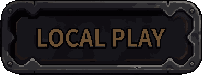
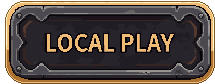
fix: pre-game UI art consistency, dialog scrollbar flash, player-number legibility
- .expansion-card: correct border-image-slice (was chopping the corner
  medallion in half) and background-clip: padding-box (was painting a flat
  color rectangle behind the border's own transparent margin) -- fixes
  Join/Realm/Lobby/Expansions panel borders.
- BoardShapeEditor restyled to the same parchment/.expansion-card theme as
  every other pre-game screen (was the last one still on dark-glass); swapped
  its canvas panel from a scrollbar to object-fit: contain so it never needs
  one.
- Local Play / Host Online buttons and the player-count tiles: base and
  selected-state art re-cut from the same source canvas (previously two
  independently generated images that drifted a few px apart despite looking
  identical) -- eliminates a "everything jumps slightly on hover/select"
  feel across the whole pre-game flow.
- Player-count numbers switched from Pixelify Sans to the existing
  room-code-font (already adopted project-wide for exactly this reason --
  digit ambiguity) plus bold.
- useModalDialog: re-focus with preventScroll after showModal(), fixing a
  page-level scrollbar flash during a dialog's entrance animation.
- victory-in keyframe: dropped its translateY offset -- the actual root
  cause of the scrollbar flash above (an already-centered panel briefly
  extending past the viewport during the animation).
- ci.yml: PR title containing "[skip multiplayer]" now skips the multiplayer
  job entirely, for presentation-only changes like this one that can't
[…]

diff --git a/catan-3d/src/components/hud/BoardShapeEditor.tsx b/catan-3d/src/components/hud/BoardShapeEditor.tsx
@@ -7,6 +7,7 @@ import {
   type CustomBoardShape,
 } from '../../data/customBoardShapes'
 import { useModalDialog } from '../../hooks/useModalDialog'
+import { INK, INK_MUTED, PARCHMENT_BUTTON, PARCHMENT_INPUT } from './parchmentTheme'
 
 // Generous enough for anything from a tight single island to a sprawling
 // peanut/archipelago-style shape, without the grid itself becoming
@@ -213,43 +214,43 @@ export function BoardShapeEditor({
     <dialog
       ref={dialogRef}
       aria-labelledby="board-shape-editor-heading"
-      className="pointer-events-auto m-auto flex max-h-[90vh] w-[960px] flex-col rounded-2xl border border-glass-border bg-glass p-6 shadow-[0_20px_60px_rgba(0,0,0,0.5)] backdrop:bg-board-navy/90 backdrop:backdrop-blur-md backdrop-blur-xl"
+      className="expansion-card pointer-events-auto m-auto flex max-h-[90vh] w-[960px] flex-col p-6 shadow-[0_20px_60px_rgba(0,0,0,0.5)] backdrop:bg-board-navy/80 backdrop:backdrop-blur-md"
     >
-      <h2 id="board-shape-editor-heading" className="font-display text-xl text-white">
+      <h2 id="board-shape-editor-heading" className={`font-display text-xl ${INK}`}>
         {mode === 'preview' ? 'Preview Board Shape' : 'Draw a Board Shape'}
       </h2>
-      <p className="mt-1 font-body text-xs text-white/60">
+      <p className={`mt-1 font-body text-xs ${INK_MUTED}`}>
         {mode === 'preview'
           ? 'This is a saved shape. Use it as-is, or Edit to change it.'
           : 'Click hexes to add them to the shape. Paint a biome onto a tile to fix it — leave tiles unpainted to draw randomly from the standard six. Sea and Gold Field never appear by chance; paint them deliberately. Numbers always shuffle fresh every game.'}
       </p>
 
       <div className="mt-4 flex min-h-0 flex-1 gap-4">
-        <div className="flex w-48 shrink-0 flex-col gap-2 overflow-y-auto rounded-xl border border-glass-border bg-board-navy/60 p-2">
+        <div className="flex w-48 shrink-0 flex-col gap-2 overflow-y-auto rounded-lg border border-[#8a6d47]/30 bg-[#f1e0be]/30 p-2">
           <button
             type="button"
             onClick={resetToBlank}
-            className="rounded-lg border border-glass-border bg-white/5 py-2 font-body text-[11px] tracking-[0.1em] text-gold uppercase transition-colors hover:border-gold/50"
+            className={`${PARCHMENT_BUTTON} py-2 font-body text-[11px] tracking-[0.1em] uppercase`}
           >
             + New Map
           </button>
           {savedShapes.length === 0 && (
-            <p className="mt-2 px-1 font-body text-[11px] text-white/40">No saved maps yet.</p>
+            <p className={`mt-2 px-1 font-body text-[11px] ${INK_MUTED}`}>No saved maps yet.</p>
           )}
           {savedShapes.map((shape) => (
             <div
               key={shape.id}
-              className={`flex items-center justify-between gap-1 rounded-lg border px-2 py-1.5 ${
-                editingId === shape.id ? 'border-gold/60 bg-gold/10' : 'border-glass-border bg-white/5'
+              className={`flex items-center justify-between gap-1 rounded-lg border px-2 py-1.5 transition-colors ${
+                editingId === shape.id ? 'border-[#7a3b1e] bg-[#7a3b1e]/10' : 'border-[#8a6d47]/30 hover:border-[#8a6d47]/60'
               }`}
             >
               <button
                 type="button"
                 onClick={() => loadShapeIntoCanvas(shape)}
-                className="min-w-0 flex-1 truncate text-left font-body text-xs text-white hover:text-gold"
+                className={`min-w-0 flex-1 truncate text-left font-body text-xs ${INK} hover:text-[#7a3b1e]`}
               >
                 {shape.name}
-                <span className="ml-1 text-white/40">({shape.cells.length})</span>
+                <span className={`ml-1 ${INK_MUTED}`}>({shape.cells.length})</span>
               </button>
               {pendingDeleteId === shape.id ? (
                 <button
@@ -268,7 +269,7 @@ export function BoardShapeEditor({
                   type="button"
                   onClick={() => setPendingDeleteId(shape.id)}
                   aria-label={`Delete ${shape.name}`}
-                  className="shrink-0 font-body text-xs text-white/40 hover:text-player-1"
+                  className={`shrink-0 font-body text-xs ${INK_MUTED} hover:text-player-1`}
                 >
                   ✕
                 </button>
@@ -278,8 +279,12 @@ export function BoardShapeEditor({
         </div>
 
         <div className="flex min-w-0 flex-1 flex-col">
-          <div className="flex-1 overflow-auto rounded-xl border border-glass-border bg-board-navy/60 p-3">
-            <svg viewBox="-320 -280 640 560" className="mx-auto block h-auto w-full max-w-[680px]">
+          <div className="flex-1 overflow-hidden rounded-lg border border-[#8a6d47]/30 bg-[#f1e0be]/30 p-3">
+            <svg
+              viewBox="-320 -280 640 560"
+              preserveAspectRatio="xMidYMid meet"
+              className="mx-auto block h-full w-full max-w-[680px] object-contain"
+            >
               {COL_RANGE.flatMap((col) =>
                 ROW_RANGE.map((row) => {
                   const cell = { col, row }
@@ -294,9 +299,9 @@ export function BoardShapeEditor({
                       key={key}
                       points={hexPolygonPoints(cx, cy, HEX_PIXEL_RADIUS - 1.5)}
                       onClick={() => handleTileClick(cell)}
-                      className={`stroke-white/15 transition-colors ${mode === 'editing' ? 'cursor-pointer' : 'cursor-default'} ${
+                      className={`stroke-[#8a6d47]/30 transition-colors ${mode === 'editing' ? 'cursor-pointer' : 'cursor-default'} ${
                         !isSelected
-                          ? 'fill-white/5 hover:fill-white/15'
+                          ? 'fill-[#8a6d47]/5 hover:fill-[#8a6d47]/15'
                           : paintedBiome
                             ? ''
                             : 'fill-gold/80 hover:fill-gold'
@@ -310,7 +315,7 @@ export function BoardShapeEditor({
             </svg>
           </div>
 
-          <div className="mt-3 flex items-center justify-between font-body text-[11px] text-white/50">
+          <div className={`mt-3 flex items-center justify-between font-body text-[11px] ${INK_MUTED}`}>
             <span>{selected.size} tiles selected</span>
             {selected.size > 0 && !connected && (
               <span className="text-player-1">Not all connected — every tile needs a neighbor in the shape.</span>
@@ -319,7 +324,7 @@ export function BoardShapeEditor({
 
           {mode === 'editing' && (
             <div className="mt-3 flex flex-wrap items-center gap-2">
-              <span className="font-body text-[11px] tracking-[0.1em] text-white/50 uppercase">Paint biome</span>
+              <span className={`font-body text-[11px] tracking-[0.1em] uppercase ${INK_MUTED}`}>Paint biome</span>
               {BIOME_PALETTE.map((biome) => (
                 <button
                   key={biome}
@@ -329,7 +334,7 @@ export function BoardShapeEditor({
                   aria-pressed={activeBrush === biome}
                   title={biome}
                   className={`h-6 w-6 rounded-full border-2 transition-transform ${
-                    activeBrush === biome ? 'scale-110 border-white' : 'border-white/30 hover:border-white/60'
+                    activeBrush === biome ? 'scale-110 border-[#7a3b1e]' : 'border-[#8a6d47]/40 hover:border-[#8a6d47]/70'
                   }`}
                   style={{ backgroundColor: BIOME_COLORS[biome] }}
                 />
@@ -341,8 +346,8 @@ export function BoardShapeEditor({
                 aria-pressed={activeBrush === 'erase'}
                 className={`rounded-lg border px-2 py-1 font-body text-[10px] tracking-[0.05em] uppercase transition-colors ${
                   activeBrush === 'erase'
-                    ? 'border-gold text-gold'
-                    : 'border-glass-border text-white/50 hover:text-white'
+                    ? 'border-[#7a3b1e] text-[#7a3b1e]'
+                    : `border-[#8a6d47]/40 ${INK_MUTED} hover:text-[#2b1810]`
                 }`}
               >
                 Erase
@@ -359,7 +364,7 @@ export function BoardShapeEditor({
                 placeholder="Name this shape"
                 aria-label="Shape name"
                 maxLength={30}
-                className="min-w-0 flex-1 rounded-lg border border-glass-border bg-white/5 px-3 py-2 font-body text-sm text-white placeholder:text-white/30 focus:border-gold/60 focus:outline-none"
+                className={`min-w-0 flex-1 ${PARCHMENT_INPUT}`}
               />
               <button
                 type="button"
@@ -367,7 +372,7 @@ export function BoardShapeEditor({
                   setSelected(new Set())
                   setPaintedBiomes(new Map())
                 }}
-                className="rounded-lg border border-glass-border bg-white/5 px-3 py-2 font-body text-[11px] tracking-[0.1em] text-white/60 uppercase transition-colors hover:border-player-1/50 hover:text-player-1"
+                className={`${PARCHMENT_BUTTON} px-3 py-2 font-body text-[11px] tracking-[0.1em] uppercase hover:text-player-1`}
               >
                 Clear
               </button>
@@ -378,7 +383,7 @@ export function BoardShapeEditor({
             <button
               type="button"
               onClick={onClose}
-              className="flex-1 rounded-lg border border-glass-border bg-white/5 py-2.5 font-display text-sm font-semibold text-white transition-colors hover:border-white/30"
+              className={`${PARCHMENT_BUTTON} flex-1 py-2.5 font-display text-sm font-semibold uppercase`}
             >
               Cancel
             </button>
@@ -387,14 +392,14 @@ export function BoardShapeEditor({
                 <button
                   type="button"
                   onClick={() => setMode('editing')}
-                  className="flex-1 rounded-lg border border-gold/50 bg-white/5 py-2.5 font-display text-sm font-semibold text-gold transition-colors hover:border-gold"
+                  className={`${PARCHMENT_BUTTON} flex-1 py-2.5 font-display text-sm font-semibold uppercase`}
                 >
                   Edit
                 </button>
                 <button
                   type="button"
                   onClick={() => onSave(buildCurrentShape())}
-                  className="flex-1 rounded-lg bg-gradient-to-b from-gold to-gold-deep py-2.5 font-display text-sm font-semibold text-board-navy transition-transform hover:scale-[1.02] active:scale-95"
+                  className={`${PARCHMENT_BUTTON} flex-1 py-2.5 font-display text-sm font-semibold uppercase`}
                 >
                   Use This Map
                 </button>
@@ -404,7 +409,7 @@ export function BoardShapeEditor({
                 type="button"
                 disabled={!canSave}
                 onClick={handleSaveShape}
-                className="flex-1 rounded-lg bg-gradient-to-b from-gold to-gold-deep py-2.5 font-display text-sm font-semibold text-board-navy transition-transform hover:scale-[1.02] active:scale-95 disabled:cursor-not-allowed disabled:opacity-40 disabled:hover:scale-100"
+                className={`${PARCHMENT_BUTTON} flex-1 py-2.5 font-display text-sm font-semibold uppercase disabled:cursor-not-allowed disabled:opacity-50`}
               >
                 Save Shape
               </button>

diff --git a/catan-3d/src/index.css b/catan-3d/src/index.css
@@ -126,15 +126,17 @@
 }
 
 /* Player-count tiles — blank (no baked-in number; 1-6 render as real text
-   on top, one shared pair of images). is-selected's canvas (67x70) isn't
-   proportioned the same as the base tile's (64x60), so background-size:
-   contain — which fits each image's WHOLE canvas into the box — rendered
-   the selected tile's core shape visibly smaller than the base tile's
-   (same bug as the buttons, index.css .btn-local-play etc.). Fixed the
-   same way: 100% 100% (stretch) makes both states fill the identical box
-   regardless of their own canvas proportions. */
+   on top, one shared pair of images). Originally two independently
+   generated images (67x70 vs 64x60) that looked the same at a glance but
+   visibly mismatched on screen; background-size: 100% 100% (stretch, same
+   fix as .btn-local-play etc.) covers any future mismatch regardless of
+   source proportions, but as of 2026-09-02 both states are cut from the
+   same 64x64 source (one with a selection border added in the same margin
+   the other leaves empty), so they're pixel-aligned without it. aspect-
+   ratio matches that shared 64x64 canvas so the box itself doesn't add its
+   own stretch on top. */
 .player-tile {
-  aspect-ratio: 64 / 60;
+  aspect-ratio: 1 / 1;
   background-image: url('./assets/menu/player-tile.png');
   background-size: 100% 100%;
   background-position: center;
@@ -201,10 +203,7 @@
 }
 
 /* Hand-made expansion/house-rules card frame (user, Aseprite, 2026-08-28) —
-   wood border + gold corner medallions around aged parchment. 15px
-   transparent margin before the border starts, ~9px of actual wood border
-   after that (pixel-scanned) — slice:24 clears both, landing right at the
-   cream interior.
+   wood border + gold corner medallions around aged parchment.
    No `fill` on border-image-slice (2026-09-01) — the source art's interior
    is a baked, non-tileable aged-parchment texture with irregular stain
    blotches, not a seamless pattern. border-image-repeat: stretch was
@@ -215,15 +214,48 @@
    background-color below (the same #f1e0be page tone every parchment
    screen in this family already samples, see parchmentTheme.ts) fills it
    instead — same color, no stretch-prone texture to distort regardless of
-   box proportions. */
+   box proportions.
+   border-image-slice: 48, not 24 (2026-09-02, real fix for a "square image
+   pasted on the border" corner artifact — confirmed by cropping the raw
+   PNG at both slice depths, not by guessing). The gold corner medallion is
+   baked into the source at roughly 45-48px per side; the plain straight
+   edge (away from corners) is a much thinner ~9px wood line with a 15px
+   transparent margin above it. A single border-image-slice value carves
+   the SAME depth for both the corner square and the edge strip, so the
+   old value (24, sized for the thin edge) sliced straight through the
+   middle of the medallion — the corner box got half a medallion with a
+   jagged cut edge, and the other half spilled into the edge strip, where
+   border-image-repeat: stretch smeared it sideways along the border's
+   length. 48 is the smallest slice that clears the whole medallion in one
+   piece; the extra ~34px it now also carries on the plain edges is flat
+   parchment-interior color in the source art, indistinguishable from the
+   background-color fill already painted behind it.
+   border-image-width: 24px, not 16 — needs to be an exact integer divisor
+   of the 48px slice (48/24 = 2x) so image-rendering: pixelated downscales
+   the medallion cleanly; a non-integer ratio (48/16 = 3x would've been
+   fine too, but the OLD 24/16 = 1.5x was not) is what produced the uneven,
+   chunky resampling on top of the half-medallion cut. border-width matches
+   border-image-width so the rendered art and the box's own layout
+   thickness agree — mismatching them stretches or crops the image inside
+   its own border band. */
 .expansion-card {
   border-style: solid;
-  border-width: 16px;
+  border-width: 24px;
   border-image-source: url('./assets/menu/expansion-panel.png');
-  border-image-slice: 24;
-  border-image-width: 16px;
+  border-image-slice: 48;
+  border-image-width: 24px;
   border-image-repeat: stretch;
   background-color: #f1e0be;
+  /* background-clip defaults to border-box, which paints this flat fill
+     underneath the WHOLE border area — including the ~15px fully
+     transparent margin baked into expansion-panel.png outside the wood
+     line. That showed up as a solid rectangle sitting behind/around the
+     ornate border, mismatched against whatever mottled page art is
+     actually behind this card (confirmed by simulating both clip modes
+     against a non-flat backdrop before touching this). padding-box confines
+     the fill to inside the visible border, letting the real page show
+     through the art's own transparent margin instead. */
+  background-clip: padding-box;
   image-rendering: pixelated;
 }
 
@@ -293,14 +325,22 @@
   }
 }
 
+/* No translateY here (2026-09-02, was translateY(24px)) -- panels using
+   this (every .expansion-card) are already vertically centered via the
+   dialog's own margin:auto, so starting 24px BELOW that pushed the
+   panel's bottom edge past the viewport for the animation's duration on
+   any panel with little vertical slack to spare -- a page-level scrollbar
+   flashed for exactly as long as the animation ran, then vanished once it
+   reached translateY(0). scale-only keeps the same "grows into place"
+   feel without any directional displacement that could push it offscreen. */
 @keyframes victory-in {
   from {
     opacity: 0;
-    transform: translateY(24px) scale(0.94);
+    transform: scale(0.94);
   }
   to {
     opacity: 1;
-    transform: translateY(0) scale(1);
+    transform: scale(1);
   }
 }
 
@@ -368,14 +408,17 @@
 
 :root {
   color-scheme: dark;
+  overflow: hidden;
 }
 
 #root {
   width: 100%;
   height: 100svh;
+  overflow: hidden;
 }
 
 body {
   margin: 0;
+  overflow: hidden;
   font-family: var(--font-body);
 }

diff --git a/catan-3d/src/components/hud/GameSetupMenu.tsx b/catan-3d/src/components/hud/GameSetupMenu.tsx
@@ -318,7 +318,7 @@ export function GameSetupMenu({
               aria-pressed={playerCount === n}
               aria-label={`${n} player${n === 1 ? '' : 's'}`}
               style={{ fontSize: LAYOUT.playersNumberFontSizePx }}
-              className={`player-tile flex items-center justify-center font-display text-[#f1e0be] focus-visible:outline-2 focus-visible:outline-offset-2 focus-visible:outline-gold ${
+              className={`player-tile room-code-font flex items-center justify-center font-bold text-[#f1e0be] focus-visible:outline-2 focus-visible:outline-offset-2 focus-visible:outline-gold ${
                 playerCount === n ? 'is-selected' : ''
               }`}
             >
@@ -335,7 +335,7 @@ export function GameSetupMenu({
               aria-pressed={playerCount === n}
               aria-label={`${n} player${n === 1 ? '' : 's'}`}
               style={{ fontSize: LAYOUT.playersNumberFontSizePx }}
-              className={`player-tile flex items-center justify-center font-display text-[#f1e0be] focus-visible:outline-2 focus-visible:outline-offset-2 focus-visible:outline-gold ${
+              className={`player-tile room-code-font flex items-center justify-center font-bold text-[#f1e0be] focus-visible:outline-2 focus-visible:outline-offset-2 focus-visible:outline-gold ${
                 playerCount === n ? 'is-selected' : ''
               }`}
             >

diff --git a/catan-3d/src/hooks/useModalDialog.ts b/catan-3d/src/hooks/useModalDialog.ts
@@ -80,6 +80,19 @@ export function useModalDialog<T extends HTMLDialogElement>(_onClose?: () => voi
     if (!node) return
 
     node.showModal()
+    // showModal()'s own auto-focus step (spec: focus the first focusable
+    // descendant, or the dialog itself) doesn't pass preventScroll, so the
+    // browser can try to scroll that target into view -- visible as a
+    // page-level scrollbar flashing for the length of the entrance
+    // animation, since the dialog is briefly offset by its own
+    // transform (e.g. animate-victory-in's translateY) before settling.
+    // Re-focusing whatever showModal() just focused, synchronously and
+    // with preventScroll set, overrides that scroll attempt without
+    // changing what ends up focused (unlike focusing `node` itself, which
+    // would steal focus away from the auto-focused field).
+    if (document.activeElement instanceof HTMLElement) {
+      document.activeElement.focus({ preventScroll: true })
+    }
 
     const handleCancel = (event: Event) => event.preventDefault()
     node.addEventListener('cancel', handleCancel)
